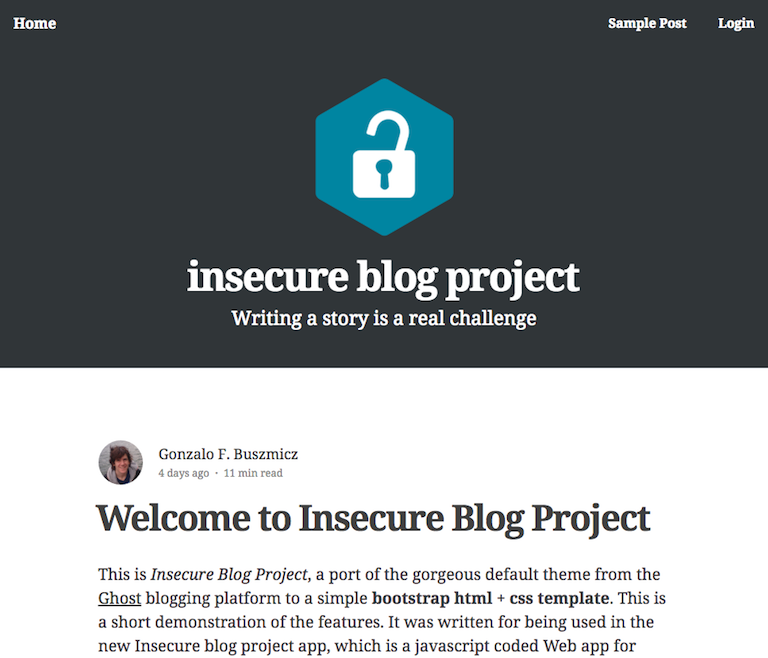
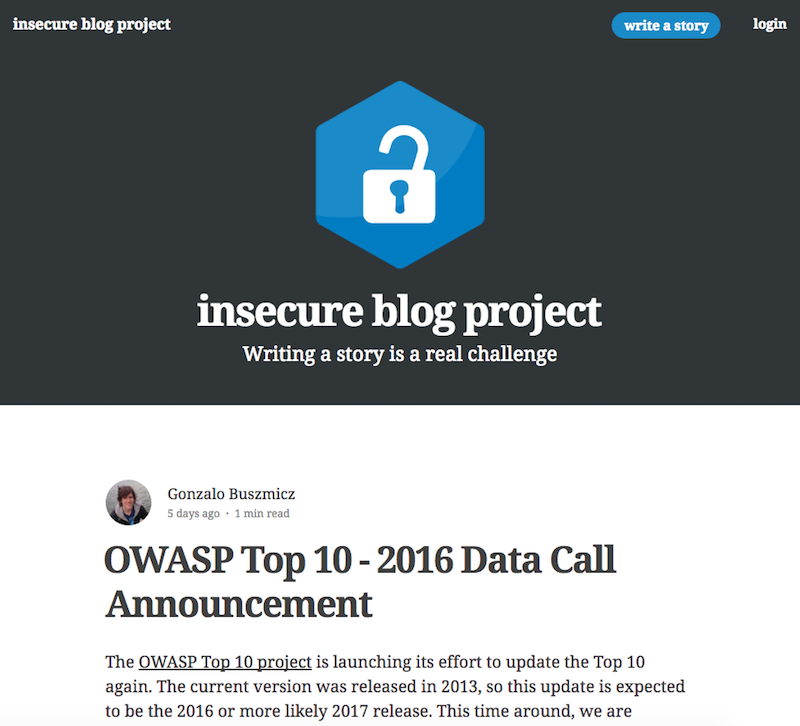
Update screenshot. Added demo online

diff --git a/README.md b/README.md
@@ -5,6 +5,11 @@ This is an insecure Web application for training and testing Web security. It ha
 <p align="center">
   <img src ="https://raw.githubusercontent.com/gbuszmicz/insecure-blog-project/master/public/images/screenshot.png" />
 </p>
+## Demo
+Check it out the [demo](http://insecureblog.herokuapp.com/) online. Have fun playing with the vulnerabilities!
+
+We will be uploading new vulnerabilities all weeks. We will try to cover all [OWASP Top 10 Common Vulnerabilities](https://www.owasp.org/index.php/Top_10_2013-Top_10), or at least most of them.
+
 ## Installation
 #### Clone the repo
 ```shell
